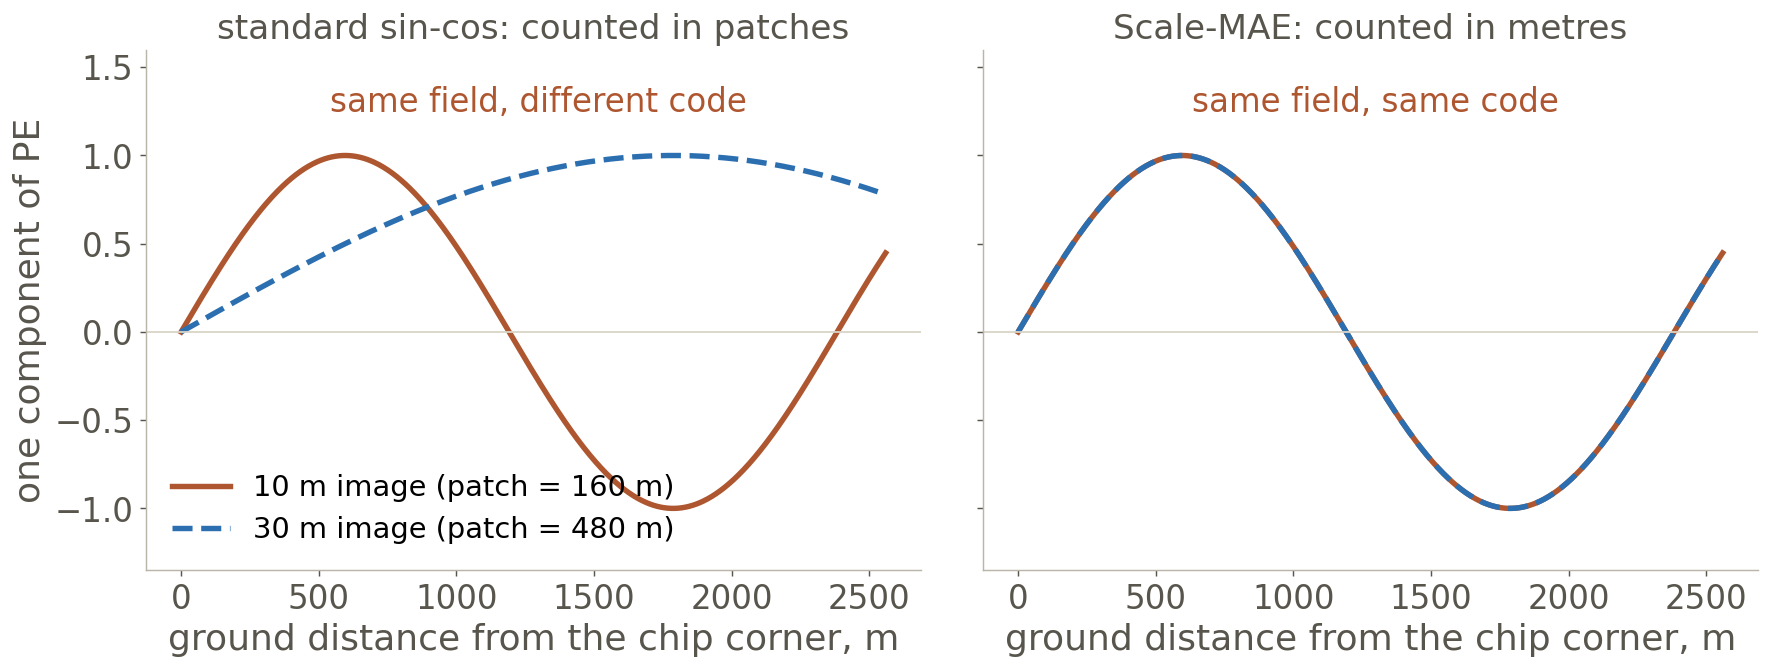
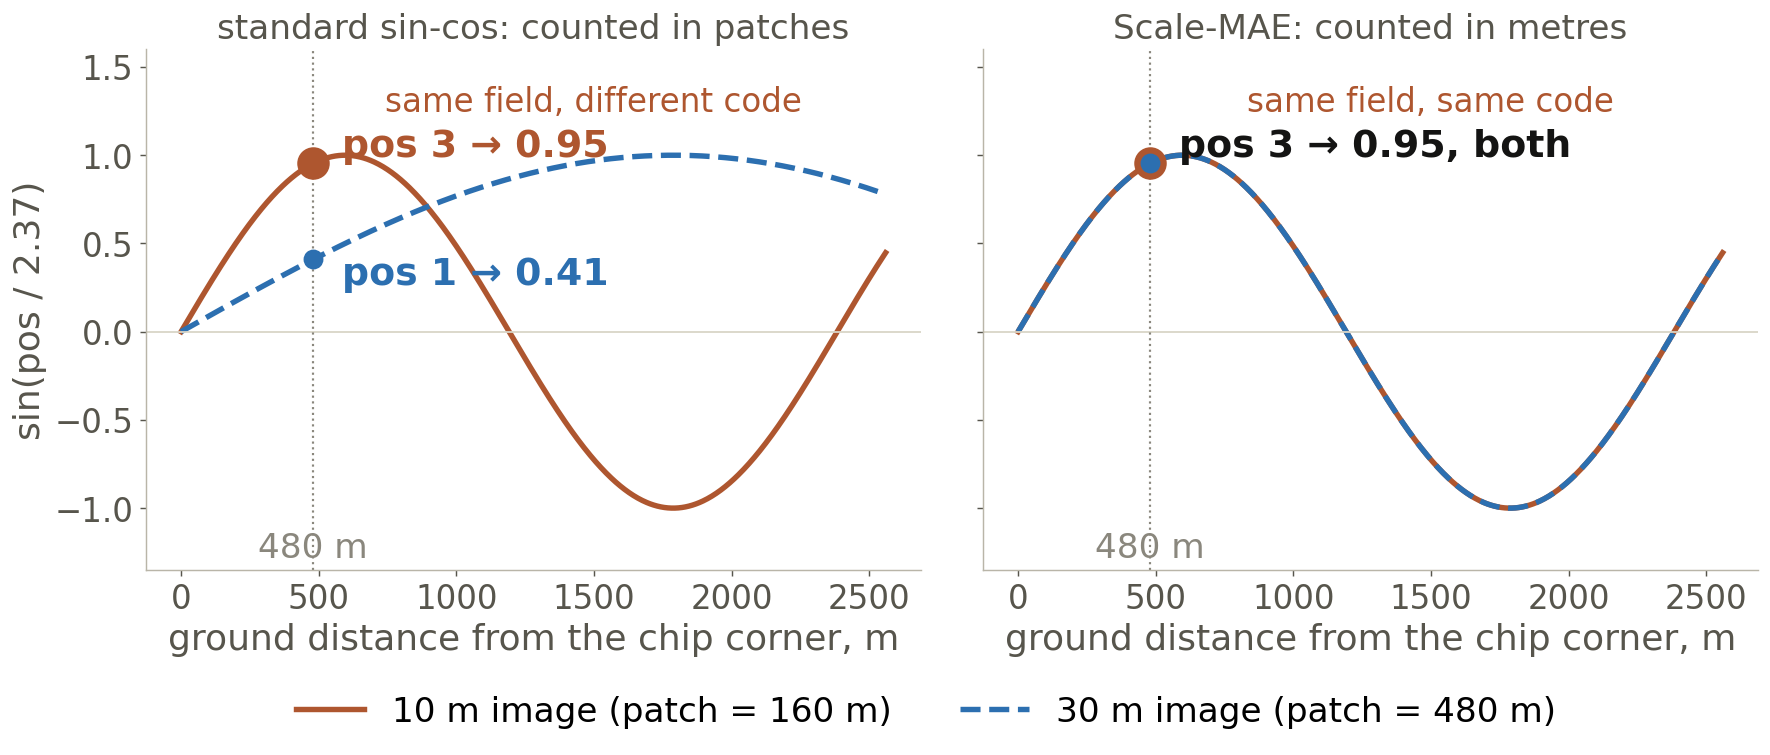
Week 6 slide 29: worked example — a field 480 m away, pos and sin values at 10 m vs 30 m, marked on the figure and tabulated; y axis explained

diff --git a/slides/week06.html b/slides/week06.html
@@ -814,16 +814,21 @@
   <h2>Count the wave in metres, not in patches</h2>
   <p class="small" style="margin:-1.6vh 0 1.4vh;color:var(--ink-2);line-height:1.45">Scale-MAE scales the position by g/G, so a wave is the same length in metres at 10 m and at 30 m.</p>
   <div class="figure" style="flex:0 0 auto;display:block;margin:0">
-    <img src="img/fig-w6-gsd-encoding.png" data-zoom alt="Two panels of one sinusoidal positional-encoding component plotted against ground distance in metres. Left, standard sin-cos: the 10-metre image's wave has a period of about 2,400 metres while the 30-metre image's wave is three times longer — same field, different code. Right, Scale-MAE's GSD encoding: the two waves coincide — same field, same code." title="Click to enlarge" style="display:block;margin:0 auto;height:30vh;width:auto;max-width:100%">
+    <img src="img/fig-w6-gsd-encoding.png" data-zoom alt="Two panels of one sinusoidal positional-encoding component plotted against ground distance in metres. Left, standard sin-cos: the 10-metre image's wave has a period of about 2,400 metres while the 30-metre image's wave is three times longer — same field, different code. Right, Scale-MAE's GSD encoding: the two waves coincide — same field, same code. A dotted line at 480 metres marks the worked example: on the left the 10-metre image is at position 3, value 0.95, and the 30-metre image at position 1, value 0.41; on the right both are at position 3, value 0.95." title="Click to enlarge" style="display:block;margin:0 auto;height:34vh;width:auto;max-width:100%">
   </div>
+  <table class="small" style="border-collapse:collapse;width:100%;margin:.6vh 0 .4vh">
+    <tr style="color:var(--ink-2)"><th style="text-align:left;padding:.3vh .6vw">a field 480 m from the corner</th><th style="text-align:left;padding:.3vh .6vw">10 m image · patch = 160 m</th><th style="text-align:left;padding:.3vh .6vw">30 m image · patch = 480 m</th></tr>
+    <tr><td style="padding:.3vh .6vw"><b>standard</b>: pos = 480 m ÷ patch</td><td style="padding:.3vh .6vw">pos 3 → sin(3 / 2.37) = <b>0.95</b></td><td style="padding:.3vh .6vw">pos 1 → sin(1 / 2.37) = <b>0.41</b> ✗</td></tr>
+    <tr><td style="padding:.3vh .6vw"><b>Scale-MAE</b>: pos × g/G (G = 10 m)</td><td style="padding:.3vh .6vw">3 × 10/10 = 3 → <b>0.95</b></td><td style="padding:.3vh .6vw">1 × 30/10 = 3 → <b>0.95</b> <span class="accent">✓</span></td></tr>
+  </table>
   <ul class="small">
-    <li>PE<sub>gsd</sub>(pos, 2i) = sin( (g/G) · pos / 10000<sup>2i/D</sup> ): the image’s GSD g over a reference G scales the <i>position</i>. A patch 480 m from the corner gets the same code whether it is patch 3 at 10 m or patch 1 at 30 m. <span class="accent">+5.6% average over SatMAE across GSDs on 8 datasets (kNN).</span></li>
+    <li>sin( <b>(g/G)</b> · pos / 10000<sup>2i/D</sup> ): <span class="accent">one factor makes the code count metres</span> — +5.6% over SatMAE across resolutions.</li>
   </ul>
   <div class="gloss">
-    <span><b>g, G</b> — this image’s and the reference ground sample distance; <b>D</b> — encoding width. <b>kNN</b> — k-nearest-neighbour accuracy on frozen features. <b>in the figure</b> — one of the D/2 wave components.</span>
+    <span><b>y axis</b> — one of the code’s D = 128 numbers, i = 6: sin(pos / 10000<sup>12/128</sup>) = sin(pos / 2.37), one turn every ≈ 15 positions. <b>g, G</b> — this image’s and a reference ground sample distance (GSD).</span>
   </div>
   <div class="foot"><span>Reed et al. 2023, <i>Scale-MAE</i>, ICCV, eqs. 3–4 and Table 1 (also a Laplacian-pyramid decoder that reconstructs at two resolutions) · computed for this lecture</span></div>
-  <aside class="notes">1.5 min. Left panel: the same field, imaged at 10 and at 30 metres, gets two different codes because sin-cos counts patches. Right panel: multiply the position by the GSD ratio and the two curves fall on top of each other — the code now counts metres. One formula on the board, pointing at the g over G inside the sine. The number: 5.6 percent average improvement over SatMAE when tested across resolutions. Connect to the previous slide: SatMAE wrote the band into the code; Scale-MAE wrote the metres; next, ClimaX writes the variable.</aside>
+  <aside class="notes">2 min. Left panel: the same field, imaged at 10 and at 30 metres, gets two different codes because sin-cos counts patches. Right panel: multiply the position by the GSD ratio and the two curves fall on top of each other — the code now counts metres. Then the dotted line at 480 m and the table: the y value is just sin(pos / 2.37), one of the 128 numbers. Standard: the 10 m image calls that field patch 3, the 30 m image calls it patch 1 — 0.95 vs 0.41. Scale-MAE multiplies by g/G: 3 × 1 and 1 × 3 — both 3, both 0.95. Point at the g over G inside the sine. kNN — k-nearest-neighbour accuracy on frozen features. The number: 5.6 percent average improvement over SatMAE when tested across resolutions. Connect to the previous slide: SatMAE wrote the band into the code; Scale-MAE wrote the metres; next, ClimaX writes the variable.</aside>
 </section>
 
 <!-- 30 -->
